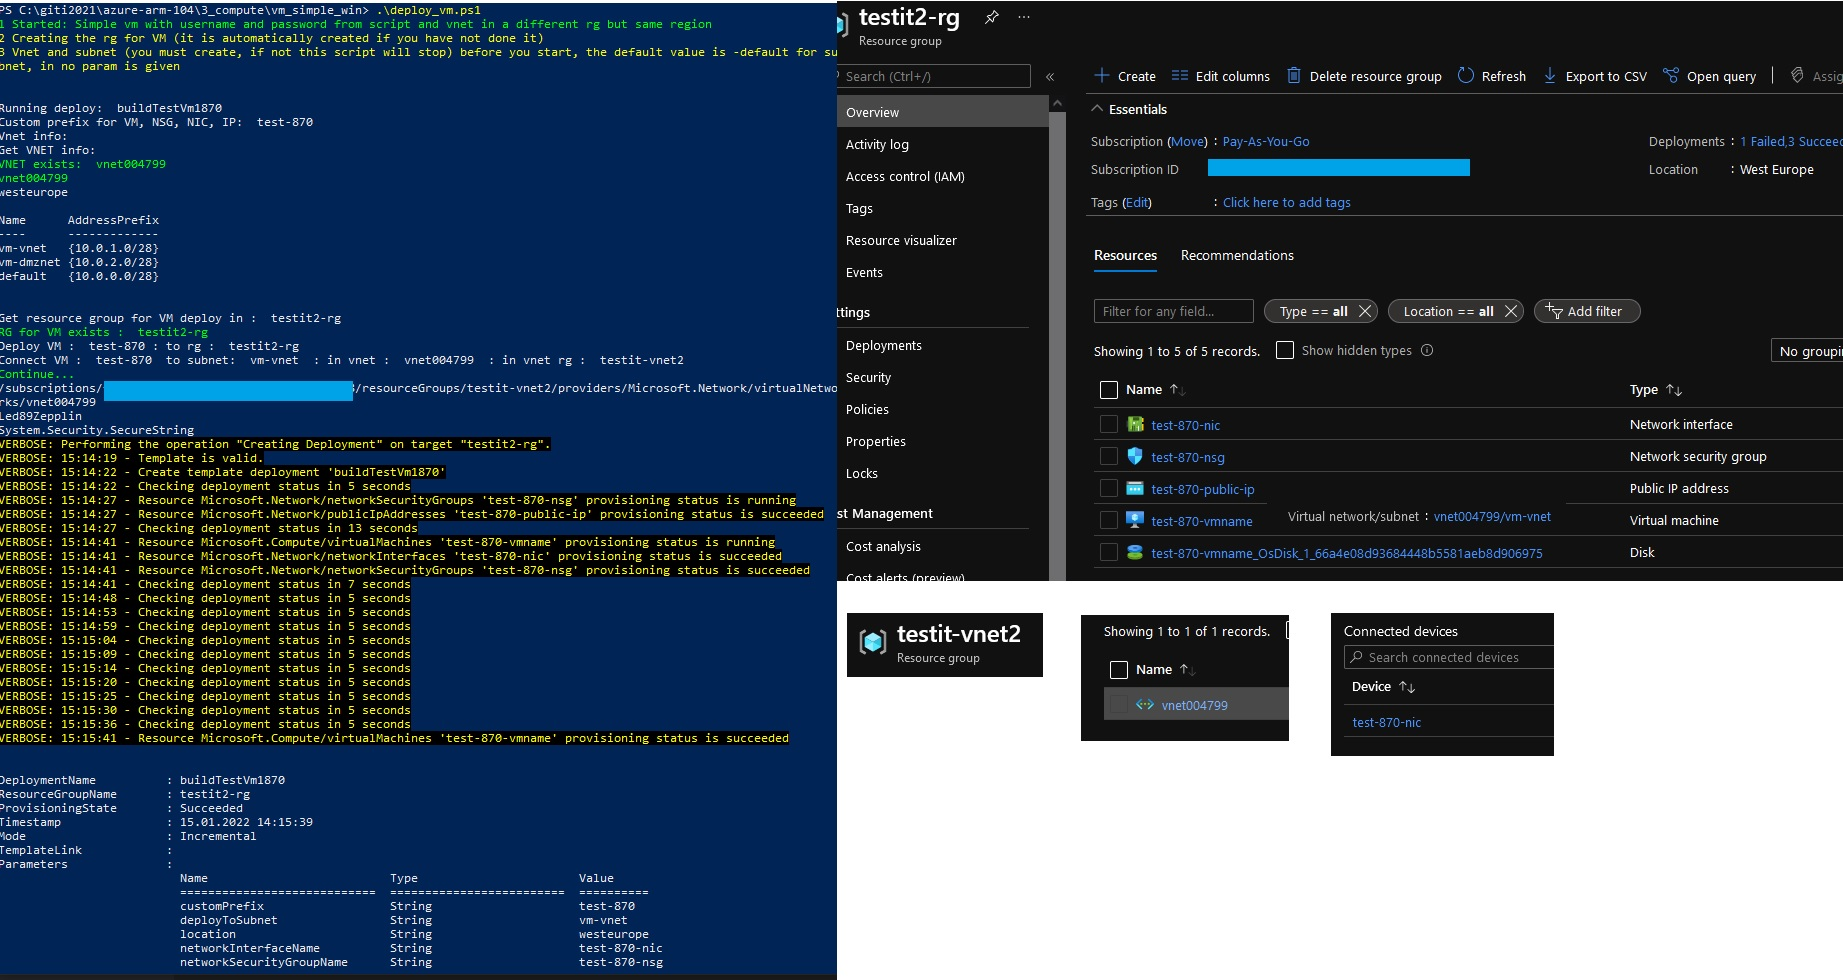
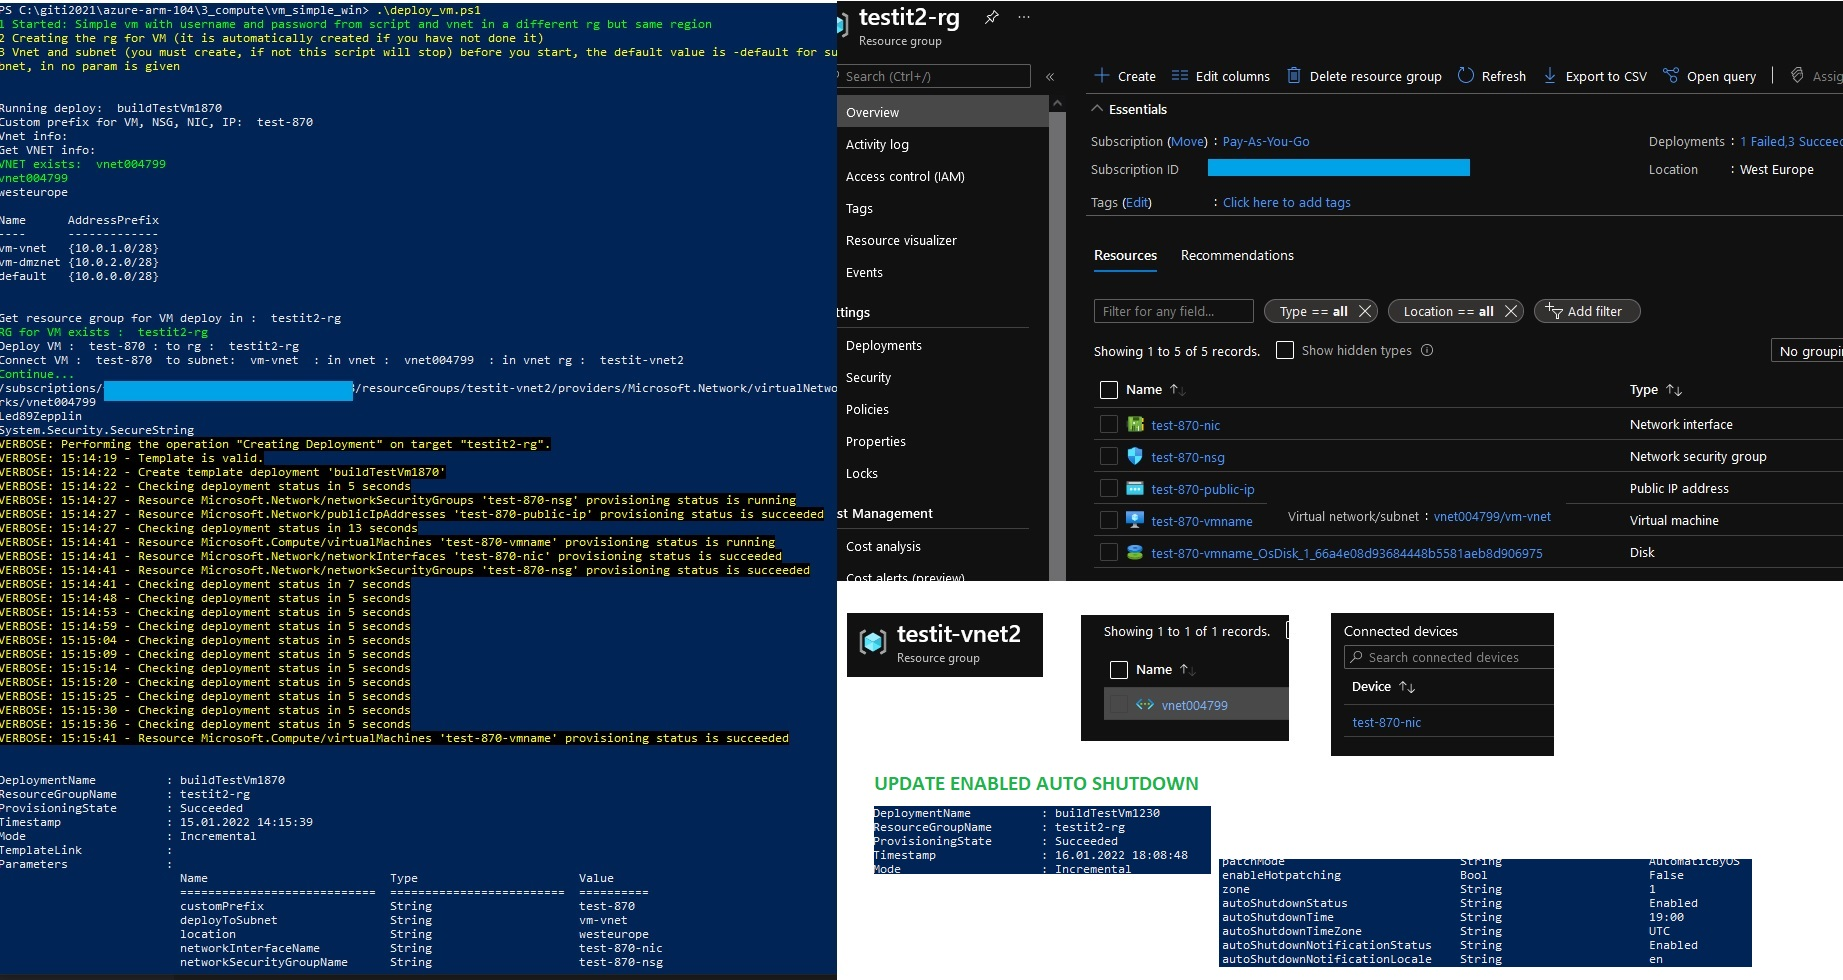
enabled autoshutdown

Changed region(s): [[0.0, 0.4592, 0.433, 0.7653], [0.4639, 0.7959, 0.9588, 1.0]]

diff --git a/3_compute/vm_simple_win/readme.md b/3_compute/vm_simple_win/readme.md
@@ -1,4 +1,5 @@
 # Simple vm with username and password from script and vnet( and subnet) in a different rg but same region.
+# With auto shutdown
 
 If you have a vnet ready, here is how to make a vm and include it in the vnet with below mentioned SKU, settings and connect it to the vnet
 (Make the vm type it in the portal first, stop at review + create and download for automation so you can use it or compare it and alter what you need.)
@@ -150,6 +151,82 @@ $vnetId = "/subscriptions/" + $sub.Id + "/resourceGroups/" + $resourceGrVnetName
             "type": "string",
             "defaultValue": "[resourceGroup().name]"
         },
+
+
+# 16.01.202 with auto shutdown
+# Parameter file as this after "zone"
+
+        "autoShutdownStatus": {
+            "value": "Enabled"
+        },
+        "autoShutdownTime": {
+            "value": "19:00"
+        },
+        "autoShutdownTimeZone": {
+            "value": "UTC"
+        },
+        "autoShutdownNotificationStatus": {
+            "value": "Enabled"
+        },
+        "autoShutdownNotificationLocale": {
+            "value": "en"
+        },
+        "autoShutdownNotificationEmail": {
+            "value": "espenkleivane@gmail.com"
+        }
+# Template file
+# we use out current genarted vm name
+"virtualMachineName": {
+            "type": "string",
+            "defaultValue":"[concat(parameters('customPrefix'), '-vmname')]"
+        },
+
+# Add this after "zone"
+"autoShutdownStatus": {
+            "type": "string"
+        },
+        "autoShutdownTime": {
+            "type": "string"
+        },
+        "autoShutdownTimeZone": {
+            "type": "string"
+        },
+        "autoShutdownNotificationStatus": {
+            "type": "string"
+        },
+        "autoShutdownNotificationLocale": {
+            "type": "string"
+        },
+        "autoShutdownNotificationEmail": {
+            "type": "string"
+        }
+
+# add this after last "zone" section
+# added for enable autoshutdown alter the cp parma from portal parameters('virtualMachineNameWhatever'))] to virtualMachineName par from the param section
+{
+            "name": "[concat('shutdown-computevm-', parameters('virtualMachineName'))]",
+            "type": "Microsoft.DevTestLab/schedules",
+            "apiVersion": "2018-09-15",
+            "location": "[parameters('location')]",
+            "dependsOn": [
+                "[concat('Microsoft.Compute/virtualMachines/', parameters('virtualMachineName'))]"
+            ],
+            "properties": {
+                "status": "[parameters('autoShutdownStatus')]",
+                "taskType": "ComputeVmShutdownTask",
+                "dailyRecurrence": {
+                    "time": "[parameters('autoShutdownTime')]"
+                },
+                "timeZoneId": "[parameters('autoShutdownTimeZone')]",
+                "targetResourceId": "[resourceId('Microsoft.Compute/virtualMachines', parameters('virtualMachineName'))]",
+                "notificationSettings": {
+                    "status": "[parameters('autoShutdownNotificationStatus')]",
+                    "notificationLocale": "[parameters('autoShutdownNotificationLocale')]",
+                    "timeInMinutes": "30",
+                    "emailRecipient": "[parameters('autoShutdownNotificationEmail')]"
+                }
+            }
+        }
 
 # Deploy ps1
 # subnet used shall be avaliable from vnet and the rg
